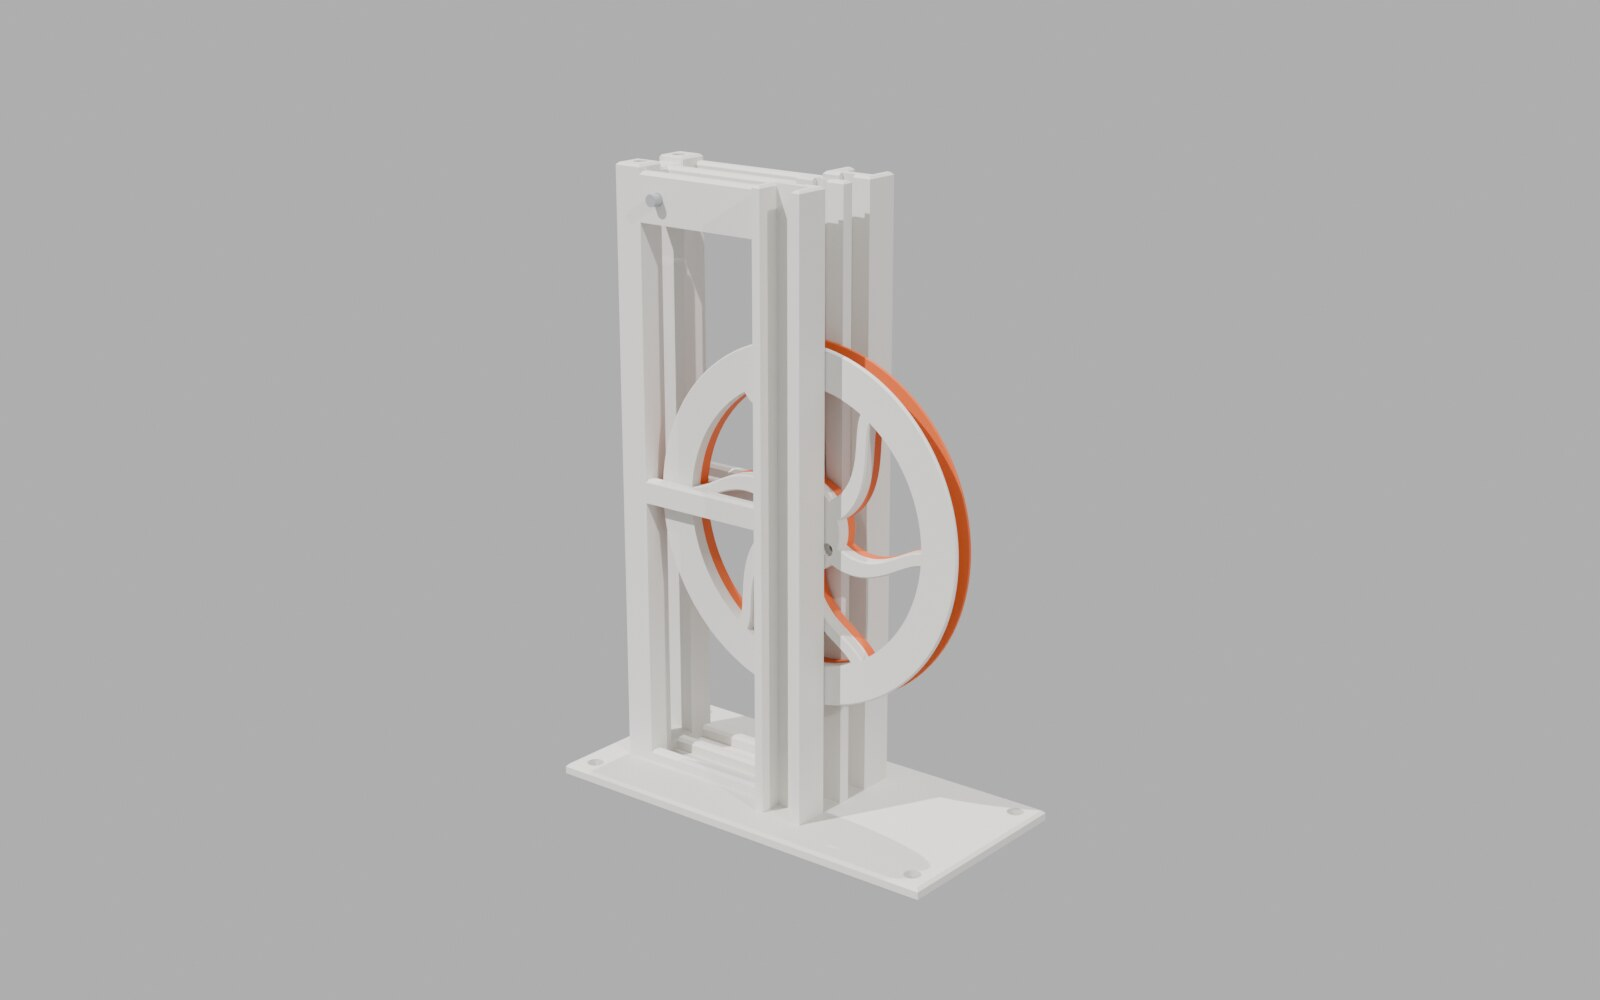
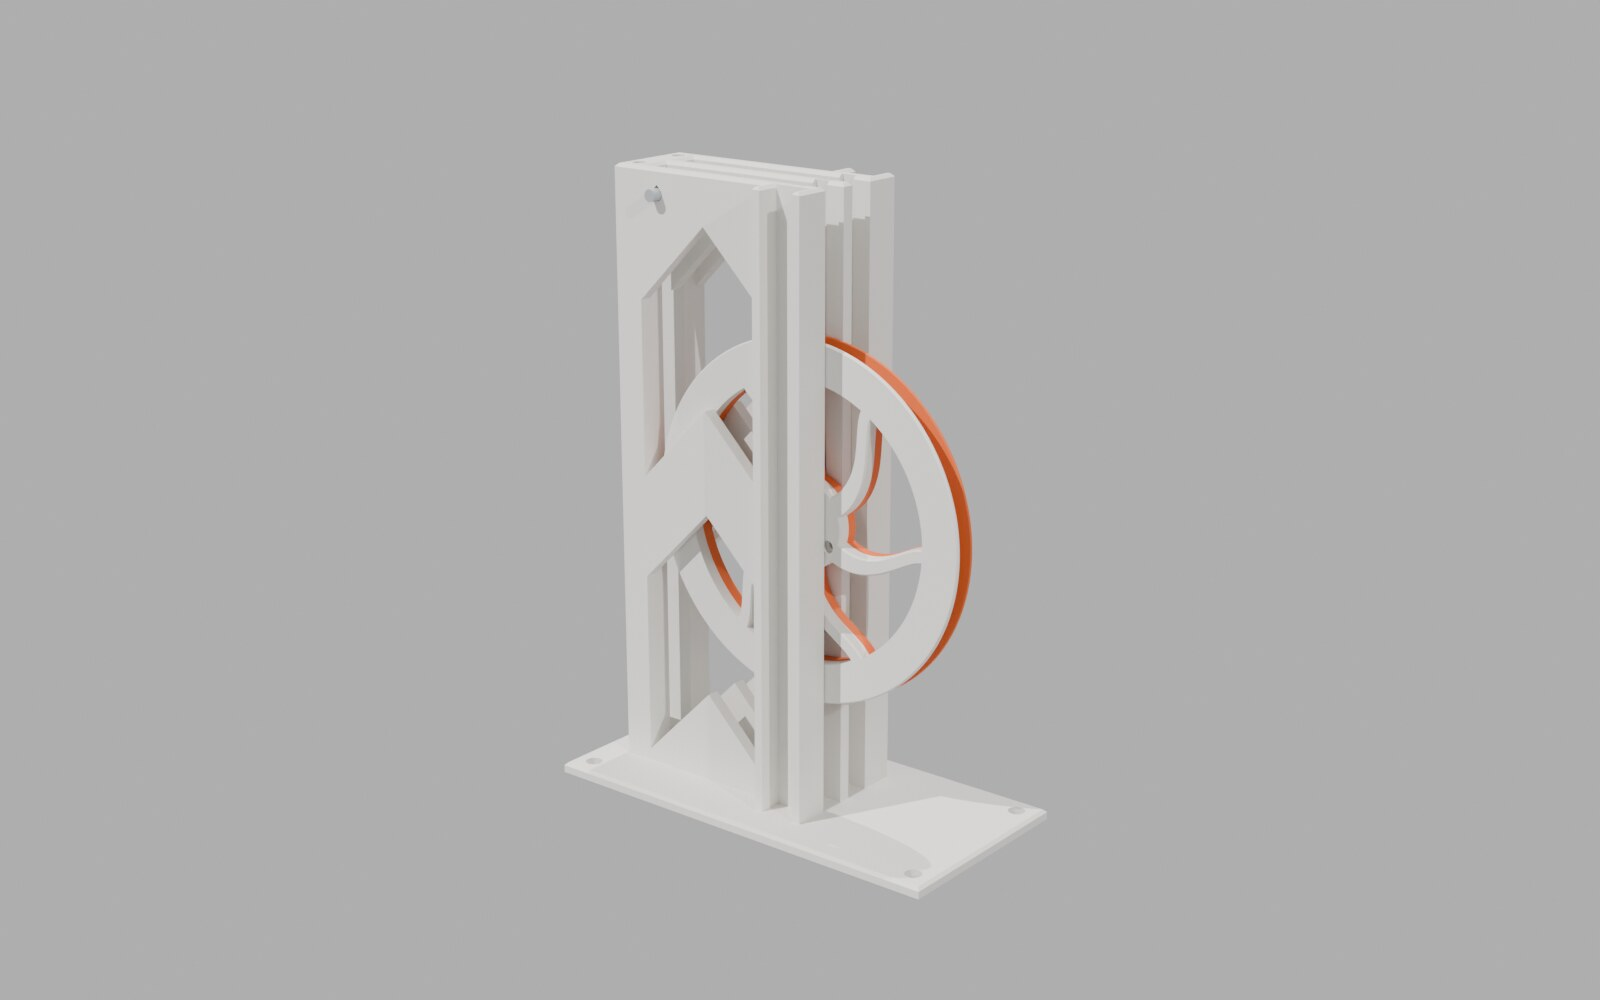
wear rig: the stack's chevron rungs, a teardrop pin hole, cut at the rung's top (#312)
Owner 2026-11-27: the rig's flat crossbars would need support up its
height. Rebuilt on #327's 45-degree chevron rungs; the anchor pin's hole
is a teardrop (point up, 45 degrees); the rig is cut at the rung's top
(Z 358), so no stub of the next window is left. Prints standing with
supports off: ~4 h 32 min, 177 g PETG.

diff --git a/cad/studies/dancer_wear_rig_fc.py b/cad/studies/dancer_wear_rig_fc.py
@@ -10,12 +10,12 @@
 #
 # The rig is a piece of the real stack, so the dowel slides on the surfaces it will slide on in the printer:
 #   - stack_body() for T0 and T1's stack (its three plates and the post: the same plates, axle grooves, slot width,
-#     windows and rungs), cut out of the middle section (Z 155..360), printed standing as the real sections are; the
+#     windows and rungs), cut out of the middle section (Z 155..358, the windows' tops peaked at 45 degrees as the real stack's), printed standing as the real sections are; the
 #     slots shortened to the travel the rig can give. The test wheel runs in the first channel (an outer plate on one
 #     side, the shared plate on the other, as T0's); the second channel can take a second wheel later (another
 #     material, another dowel);
 #   - a base flange under it (4 thick, 4 holes for wood screws or a clamp to the bench);
-#   - the fixed leg's anchor: a 4.2 hole through the plates' rung at Z 350, above the wheel's highest sweep: an M4
+#   - the fixed leg's anchor: a 4.2 teardrop hole through the plates' rung at Z 350, above the wheel's highest sweep: an M4
 #     screw (or any 4 mm pin) through it, the cord tied round it between the plates. The grooves run out of the top
 #     (as the real middle section's, owner 2026-11-27): the wheel drops in with the pin out, and the pin then stops
 #     it riding up out of them;
@@ -35,7 +35,7 @@ def log(*a):
     _log.write(" ".join(str(x) for x in a) + "\n"); _log.flush()
 
 
-CUT = (155.0, 360.0)            # the piece of the stack (real Z): the middle section's bottom, to past the rung 342..358
+CUT = (155.0, 358.0)            # the piece of the stack (real Z): the middle section's bottom, to the rung 342..358's top
 BASE_T, BASE_Y = 4.0, 35.0      # the base flange: thickness; half its depth in Y
 ANCHOR_Z, ANCHOR_R = 350.0, 2.1  # the fixed leg's pin: in the rung 342..358; an M4 (or 4 mm pin) through it
 CLEAR = 2.0                     # the wheel's sweep clear of the base and the pin
@@ -71,8 +71,13 @@ def main():
         for hy in (y0 + L.PITCH / 2 - BASE_Y + 7.0, y0 + L.PITCH / 2 + BASE_Y - 7.0):
             base = base.cut(Part.makeCylinder(2.75, BASE_T + 2, V(hx, hy, CUT[0] - 1), V(0, 0, 1)))
     rig = piece.fuse(base).removeSplitter()
+    # the pin's hole: a teardrop, its point up at 45 degrees, so it prints standing with no support (owner 2026-11-27)
     pin = Part.makeCylinder(ANCHOR_R, 200.0, V(cx - RP, y0 - 100.0, ANCHOR_Z), V(0, 1, 0))
-    rig = rig.cut(pin).removeSplitter()
+    k = ANCHOR_R / math.sqrt(2)
+    tip = Part.Face(Part.makePolygon([V(cx - RP - k, y0 - 100.0, ANCHOR_Z + k), V(cx - RP + k, y0 - 100.0, ANCHOR_Z + k),
+                                      V(cx - RP, y0 - 100.0, ANCHOR_Z + ANCHOR_R * math.sqrt(2)),
+                                      V(cx - RP - k, y0 - 100.0, ANCHOR_Z + k)])).extrude(V(0, 200.0, 0))
+    rig = rig.cut(pin.fuse(tip)).removeSplitter()
     # the leg's path, from the pin down between the plates to the wheel's side at its lowest: nothing in the way
     leg = Part.makeCylinder(2.55, ANCHOR_Z - ANCHOR_R - axle[0], V(cx - RP, y0, axle[0]), V(0, 0, 1))
     check(rig.common(leg).Volume < 0.01, f"the fixed leg's path (X {cx - RP:.1f}, Z {axle[0]:.1f}..{ANCHOR_Z:g}) is clear "

diff --git a/notes/dancer-wear-test.md b/notes/dancer-wear-test.md
@@ -35,10 +35,11 @@ dowel. Wear on the plastic should be similar or worse in PETG. If PETG passes, o
 
 **Slice (Orca 2.5.2, slice-check):**
 - Each half: about 17 min and 15 g, with no support worth the name.
-- The rig: about 4 h 37 min and 178 g, including about 30 g of support that Orca's 45° check adds under the frame's
-  rungs (the bridges across the window tops, about 30 mm). Your process prints with supports off, as the project
-  does. Try the bridges as they are: they're the same rungs the real stack sections will bridge. Only add supports
-  if one sags.
+- The rig: about 4 h 32 min and 177 g. Its crossbars are the stack's 45° chevrons (owner 2026-11-27: "The crossbars
+  need support ... can you make them angled at 45"), and its pin hole is a teardrop, so it prints standing with
+  supports off, as the project does.
+- Orca's support check, which flags overhangs at 45° and flatter, still marks the slopes: 25 g, since they sit
+  exactly on its line. At 44° it leaves only one 4 mm strip (2.5 g).
 
 ## Before
 
